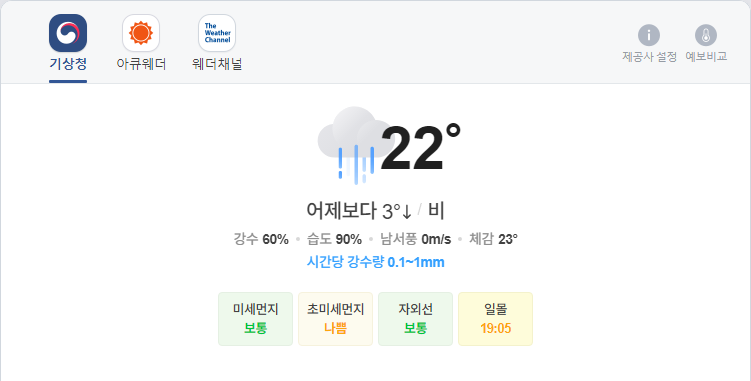
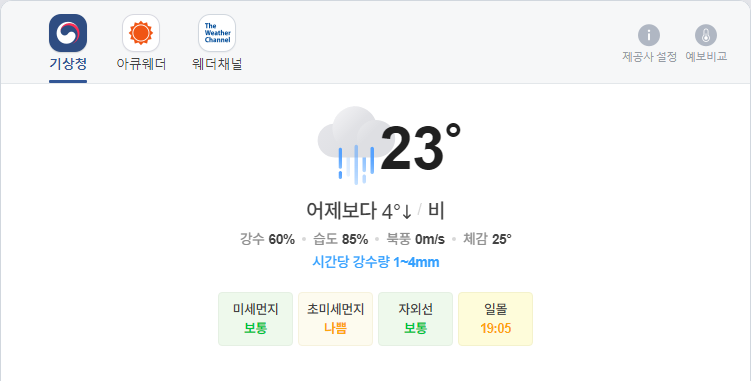
update result

diff --git a/README.md b/README.md
@@ -1,5 +1,5 @@
-##  2021-08-31 09:16:47   화요일 
-##### 날씨   -   어제보다 3° 낮아요비  
+##  2021-08-31 12:07:35   화요일 
+##### 날씨   -   어제보다 4° 낮아요비  
 <center><img src="../img/naver_weather_week.png"></center>
 ----
 ----
@@ -16,14 +16,14 @@
 <tr align = "right" > <td>DOW</td><td>35,399.84</td><td>-55.96</td><td><font size="3" color="blue" >-0.16%</font></td><td><font size="3" color="black">0</font></td><td><font size="3" color="black">0</font></td><td>0</td>  </tr>
 <tr align = "right" > <td>NASDAQ</td><td>15,265.89</td><td>136.39</td><td><font size="3" color="red" >0.9%</font></td><td><font size="3" color="black">0</font></td><td><font size="3" color="black">0</font></td><td>0</td>  </tr>
 <tr align = "right" > <td>S&P</td><td>4,528.79</td><td>19.42</td><td><font size="3" color="red" >0.43%</font></td><td><font size="3" color="black">0</font></td><td><font size="3" color="black">0</font></td><td>0</td>  </tr>
-<tr align = "right" > <td>SHANHAI</td><td>3,528.15</td><td>5.99</td><td><font size="3" color="red" >0.17%</font></td><td><font size="3" color="black">0</font></td><td><font size="3" color="black">0</font></td><td>0</td>  </tr>
+<tr align = "right" > <td>SHANHAI</td><td>3,506.31</td><td>-21.84</td><td><font size="3" color="blue" >-0.62%</font></td><td><font size="3" color="black">0</font></td><td><font size="3" color="black">0</font></td><td>0</td>  </tr>
 <tr align = "right" > <td>INDIA</td><td>56,889.76</td><td>765.04</td><td><font size="3" color="red" >1.36%</font></td><td><font size="3" color="black">0</font></td><td><font size="3" color="black">0</font></td><td>0</td>  </tr>
 </table>
 ----
 ##### 시장
 <table border="1" bordercolor="blue" align = "center" >
 <tr align = "right" > <td>Item</td><td>Price</td><td>Diff</td><td>Rate</td><td>Buy</td><td>Sell</td><td>...</td>  </tr>
-<tr align = "right" > <td>USD</td><td>1,166.0</td><td>1.5</td><td><font size="3" color="red">0.13%</font></td><td><font size="3" color="black">1,110</font></td><td><font size="3" color="black">0</font></td><td>0</td>  </tr>
+<tr align = "right" > <td>USD</td><td>1,164.0</td><td>-0.3</td><td><font size="3" color="blue">-0.03%</font></td><td><font size="3" color="black">1,110</font></td><td><font size="3" color="black">0</font></td><td>0</td>  </tr>
 <tr align = "right" > <td>WTI</td><td>69.21</td><td>0.47</td><td><font size="3" color="red">0.68%</font></td><td><font size="3" color="black">29.0</font></td><td><font size="3" color="black">0</font></td><td>0</td>  </tr>
 <tr align = "right" > <td>GOLD</td><td>1,809.0</td><td>-7.6</td><td><font size="3" color="blue">-0.41%</font></td><td><font size="3" color="black">0</font></td><td><font size="3" color="black">0</font></td><td>0</td>  </tr>
 </table>
@@ -31,32 +31,32 @@
 ##### 주가
 <table border="1" bordercolor="blue" align = "center" >
 <tr align = "right" > <td>Item</td><td>Price</td><td>Diff</td><td>Rate</td><td>Purchased</td><td>Sell</td><td>Buy</td>  </tr>
-<tr align = "right" > <td>한국 전력</td><td>23,750</td><td>-50</td><td><font size="3" color="blue">-0.21%</font></td><td>25,720</td><td><font size="3" color="black">27,700</font></td><td><font size="3" color="black">20,700</font></td>  </tr>
-<tr align = "right" > <td>삼성엔지니어.</td><td>21,800</td><td>-350</td><td><font size="3" color="blue">-1.58%</font></td><td>18,935</td><td><font size="3" color="black">20,000</font></td><td><font size="3" color="black">8,000</font></td>  </tr>
-<tr align = "right" > <td>CJ CGV</td><td>30,350</td><td>50</td><td><font size="3" color="red">0.17%</font></td><td>34,895</td><td><font size="3" color="black">36,000</font></td><td><font size="3" color="black">0</font></td>  </tr>
-<tr align = "right" > <td>아모레퍼시픽</td><td>224,000</td><td>1,500</td><td><font size="3" color="red">0.67%</font></td><td>235,350</td><td><font size="3" color="black">240,000</font></td><td><font size="3" color="black">130,000</font></td>  </tr>
-<tr align = "right" > <td>한화</td><td>34,800</td><td>-250</td><td><font size="3" color="blue">-0.71%</font></td><td>25,550</td><td><font size="3" color="black">26,250</font></td><td><font size="3" color="black">26,250</font></td>  </tr>
-<tr align = "right" > <td>NAVER</td><td>428,000</td><td>0</td><td><font size="3" color="black">0.0%</font></td><td>147,200</td><td><font size="3" color="black">386,000</font></td><td><font size="3" color="black">286,000</font></td>  </tr>
-<tr align = "right" > <td>LG 화학우</td><td>349,000</td><td>-500</td><td><font size="3" color="blue">-0.14%</font></td><td>202,490</td><td><font size="3" color="black">384,000</font></td><td><font size="3" color="orangered">384,000</font></td>  </tr>
-<tr align = "right" > <td>스튜디오드래.</td><td>86,000</td><td>-600</td><td><font size="3" color="blue">-0.69%</font></td><td>81,243</td><td><font size="3" color="black">85,200</font></td><td><font size="3" color="black">85,200</font></td>  </tr>
-<tr align = "right" > <td>QV미국IT</td><td>32,590</td><td>0</td><td><font size="3" color="black">0.0%</font></td><td>0</td><td><font size="3" color="black">30,000</font></td><td><font size="3" color="black">20,000</font></td>  </tr>
-<tr align = "right" > <td>삼성 전자우</td><td>69,700</td><td>0</td><td><font size="3" color="black">0.0%</font></td><td>60,675</td><td><font size="3" color="black">76,000</font></td><td><font size="3" color="black">55,000</font></td>  </tr>
-<tr align = "right" > <td>LS</td><td>66,900</td><td>300</td><td><font size="3" color="red">0.45%</font></td><td>71,900</td><td><font size="3" color="black">82,000</font></td><td><font size="3" color="black">60,000</font></td>  </tr>
-<tr align = "right" > <td>한화에어로스.</td><td>50,200</td><td>0</td><td><font size="3" color="black">0.0%</font></td><td>25,700</td><td><font size="3" color="black">30,000</font></td><td><font size="3" color="black">24,000</font></td>  </tr>
-<tr align = "right" > <td>한화시스템.</td><td>19,750</td><td>50</td><td><font size="3" color="red">0.25%</font></td><td>16,875</td><td><font size="3" color="black">30,000</font></td><td><font size="3" color="black">14,000</font></td>  </tr>
-<tr align = "right" > <td>카카오</td><td>151,500</td><td>0</td><td><font size="3" color="black">0.0%</font></td><td>405,500</td><td><font size="3" color="black">440,000</font></td><td><font size="3" color="orangered">400,000</font></td>  </tr>
-<tr align = "right" > <td>호텔 신라</td><td>89,100</td><td>0</td><td><font size="3" color="black">0.0%</font></td><td>88,650</td><td><font size="3" color="black">100,000</font></td><td><font size="3" color="black">70,000</font></td>  </tr>
-<tr align = "right" > <td>S-Oil</td><td>93,200</td><td>-1,100</td><td><font size="3" color="blue">-1.17%</font></td><td>62,842</td><td><font size="3" color="black">100,000</font></td><td><font size="3" color="black">50,000</font></td>  </tr>
-<tr align = "right" > <td>LG전자</td><td>140,000</td><td>500</td><td><font size="3" color="red">0.36%</font></td><td>82,022</td><td><font size="3" color="black">100,000</font></td><td><font size="3" color="black">60,000</font></td>  </tr>
-<tr align = "right" > <td>KT&G</td><td>81,000</td><td>0</td><td><font size="3" color="black">0.0%</font></td><td>79,700</td><td><font size="3" color="black">100,000</font></td><td><font size="3" color="black">70,000</font></td>  </tr>
-<tr align = "right" > <td>지역난방공사</td><td>40,300</td><td>50</td><td><font size="3" color="red">0.12%</font></td><td>43,590</td><td><font size="3" color="black">60,000</font></td><td><font size="3" color="black">30,000</font></td>  </tr>
+<tr align = "right" > <td>한국 전력</td><td>23,650</td><td>-150</td><td><font size="3" color="blue">-0.63%</font></td><td>25,720</td><td><font size="3" color="black">27,700</font></td><td><font size="3" color="black">20,700</font></td>  </tr>
+<tr align = "right" > <td>삼성엔지니어.</td><td>21,950</td><td>-200</td><td><font size="3" color="blue">-0.9%</font></td><td>18,935</td><td><font size="3" color="black">20,000</font></td><td><font size="3" color="black">8,000</font></td>  </tr>
+<tr align = "right" > <td>CJ CGV</td><td>30,150</td><td>-150</td><td><font size="3" color="blue">-0.5%</font></td><td>34,895</td><td><font size="3" color="black">36,000</font></td><td><font size="3" color="black">0</font></td>  </tr>
+<tr align = "right" > <td>아모레퍼시픽</td><td>223,000</td><td>500</td><td><font size="3" color="red">0.22%</font></td><td>235,350</td><td><font size="3" color="black">240,000</font></td><td><font size="3" color="black">130,000</font></td>  </tr>
+<tr align = "right" > <td>한화</td><td>34,750</td><td>-300</td><td><font size="3" color="blue">-0.86%</font></td><td>25,550</td><td><font size="3" color="black">26,250</font></td><td><font size="3" color="black">26,250</font></td>  </tr>
+<tr align = "right" > <td>NAVER</td><td>429,500</td><td>1,500</td><td><font size="3" color="red">0.35%</font></td><td>147,200</td><td><font size="3" color="black">386,000</font></td><td><font size="3" color="black">286,000</font></td>  </tr>
+<tr align = "right" > <td>LG 화학우</td><td>340,000</td><td>-9,500</td><td><font size="3" color="blue">-2.72%</font></td><td>202,490</td><td><font size="3" color="black">384,000</font></td><td><font size="3" color="orangered">384,000</font></td>  </tr>
+<tr align = "right" > <td>스튜디오드래.</td><td>86,100</td><td>-500</td><td><font size="3" color="blue">-0.58%</font></td><td>81,243</td><td><font size="3" color="black">85,200</font></td><td><font size="3" color="black">85,200</font></td>  </tr>
+<tr align = "right" > <td>QV미국IT</td><td>33,150</td><td>560</td><td><font size="3" color="red">1.72%</font></td><td>0</td><td><font size="3" color="black">30,000</font></td><td><font size="3" color="black">20,000</font></td>  </tr>
+<tr align = "right" > <td>삼성 전자우</td><td>69,500</td><td>-200</td><td><font size="3" color="blue">-0.29%</font></td><td>60,675</td><td><font size="3" color="black">76,000</font></td><td><font size="3" color="black">55,000</font></td>  </tr>
+<tr align = "right" > <td>LS</td><td>66,500</td><td>-100</td><td><font size="3" color="blue">-0.15%</font></td><td>71,900</td><td><font size="3" color="black">82,000</font></td><td><font size="3" color="black">60,000</font></td>  </tr>
+<tr align = "right" > <td>한화에어로스.</td><td>50,800</td><td>600</td><td><font size="3" color="red">1.2%</font></td><td>25,700</td><td><font size="3" color="black">30,000</font></td><td><font size="3" color="black">24,000</font></td>  </tr>
+<tr align = "right" > <td>한화시스템.</td><td>19,950</td><td>250</td><td><font size="3" color="red">1.27%</font></td><td>16,875</td><td><font size="3" color="black">30,000</font></td><td><font size="3" color="black">14,000</font></td>  </tr>
+<tr align = "right" > <td>카카오</td><td>152,000</td><td>500</td><td><font size="3" color="red">0.33%</font></td><td>405,500</td><td><font size="3" color="black">440,000</font></td><td><font size="3" color="orangered">400,000</font></td>  </tr>
+<tr align = "right" > <td>호텔 신라</td><td>88,900</td><td>-200</td><td><font size="3" color="blue">-0.22%</font></td><td>88,650</td><td><font size="3" color="black">100,000</font></td><td><font size="3" color="black">70,000</font></td>  </tr>
+<tr align = "right" > <td>S-Oil</td><td>92,600</td><td>-1,700</td><td><font size="3" color="blue">-1.8%</font></td><td>62,842</td><td><font size="3" color="black">100,000</font></td><td><font size="3" color="black">50,000</font></td>  </tr>
+<tr align = "right" > <td>LG전자</td><td>138,500</td><td>-1,000</td><td><font size="3" color="blue">-0.72%</font></td><td>82,022</td><td><font size="3" color="black">100,000</font></td><td><font size="3" color="black">60,000</font></td>  </tr>
+<tr align = "right" > <td>KT&G</td><td>80,900</td><td>-100</td><td><font size="3" color="blue">-0.12%</font></td><td>79,700</td><td><font size="3" color="black">100,000</font></td><td><font size="3" color="black">70,000</font></td>  </tr>
+<tr align = "right" > <td>지역난방공사</td><td>40,250</td><td>0</td><td><font size="3" color="black">0.0%</font></td><td>43,590</td><td><font size="3" color="black">60,000</font></td><td><font size="3" color="black">30,000</font></td>  </tr>
 <tr align = "right" > <td>맥쿼리인프라</td><td>12,350</td><td>0</td><td><font size="3" color="black">0.0%</font></td><td>12,577</td><td><font size="3" color="black">30,000</font></td><td><font size="3" color="black">10,000</font></td>  </tr>
-<tr align = "right" > <td>KOEDX은행</td><td>7,320</td><td>-40</td><td><font size="3" color="blue">-0.54%</font></td><td>7,578</td><td><font size="3" color="black">8,825</font></td><td><font size="3" color="black">6,225</font></td>  </tr>
-<tr align = "right" > <td>글로벌럭셔리</td><td>17,790</td><td>-20</td><td><font size="3" color="blue">-0.11%</font></td><td>16,302</td><td><font size="3" color="black">20,000</font></td><td><font size="3" color="black">10,000</font></td>  </tr>
-<tr align = "right" > <td>TIRGER200건설</td><td>3,230</td><td>-5</td><td><font size="3" color="blue">-0.15%</font></td><td>3,440</td><td><font size="3" color="black">4,000</font></td><td><font size="3" color="black">3,000</font></td>  </tr>
-<tr align = "right" > <td>KODEXK미래차</td><td>10,430</td><td>10</td><td><font size="3" color="red">0.1%</font></td><td>10,955</td><td><font size="3" color="black">20,000</font></td><td><font size="3" color="black">10,000</font></td>  </tr>
-<tr align = "right" > <td>TIGER글로벌BBIG</td><td>12,140</td><td>100</td><td><font size="3" color="red">0.83%</font></td><td>11,020</td><td><font size="3" color="black">20,000</font></td><td><font size="3" color="black">10,000</font></td>  </tr>
-<tr align = "right" > <td>TIGER퓨처모빌리티</td><td>10,900</td><td>60</td><td><font size="3" color="red">0.55%</font></td><td>10,695</td><td><font size="3" color="black">20,000</font></td><td><font size="3" color="black">10,000</font></td>  </tr>
-<tr align = "right" > <td>한국금융지주</td><td>92,400</td><td>-500</td><td><font size="3" color="blue">-0.54%</font></td><td>0</td><td><font size="3" color="black">82,000</font></td><td><font size="3" color="black">60,000</font></td>  </tr>
+<tr align = "right" > <td>KOEDX은행</td><td>7,305</td><td>-55</td><td><font size="3" color="blue">-0.75%</font></td><td>7,578</td><td><font size="3" color="black">8,825</font></td><td><font size="3" color="black">6,225</font></td>  </tr>
+<tr align = "right" > <td>글로벌럭셔리</td><td>17,720</td><td>-90</td><td><font size="3" color="blue">-0.51%</font></td><td>16,302</td><td><font size="3" color="black">20,000</font></td><td><font size="3" color="black">10,000</font></td>  </tr>
+<tr align = "right" > <td>TIRGER200건설</td><td>3,250</td><td>15</td><td><font size="3" color="red">0.46%</font></td><td>3,440</td><td><font size="3" color="black">4,000</font></td><td><font size="3" color="black">3,000</font></td>  </tr>
+<tr align = "right" > <td>KODEXK미래차</td><td>10,440</td><td>20</td><td><font size="3" color="red">0.19%</font></td><td>10,955</td><td><font size="3" color="black">20,000</font></td><td><font size="3" color="black">10,000</font></td>  </tr>
+<tr align = "right" > <td>TIGER글로벌BBIG</td><td>12,115</td><td>75</td><td><font size="3" color="red">0.62%</font></td><td>11,020</td><td><font size="3" color="black">20,000</font></td><td><font size="3" color="black">10,000</font></td>  </tr>
+<tr align = "right" > <td>TIGER퓨처모빌리티</td><td>10,945</td><td>105</td><td><font size="3" color="red">0.97%</font></td><td>10,695</td><td><font size="3" color="black">20,000</font></td><td><font size="3" color="black">10,000</font></td>  </tr>
+<tr align = "right" > <td>한국금융지주</td><td>92,600</td><td>-300</td><td><font size="3" color="blue">-0.32%</font></td><td>0</td><td><font size="3" color="black">82,000</font></td><td><font size="3" color="black">60,000</font></td>  </tr>
 </table>
 ----
